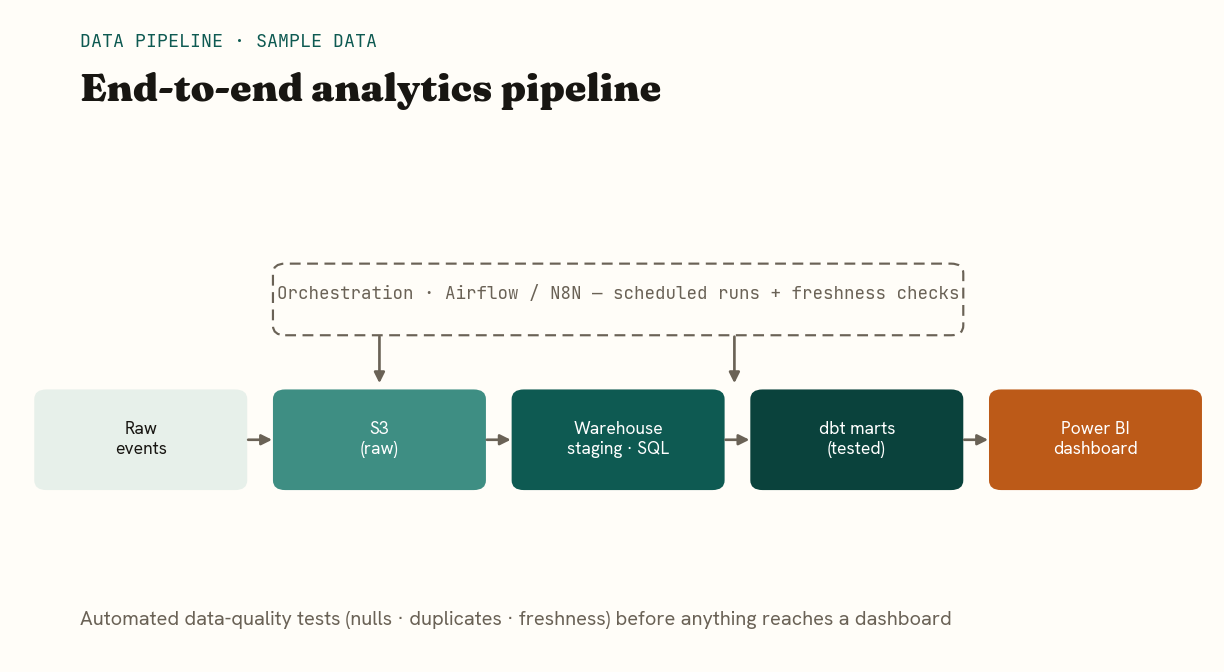
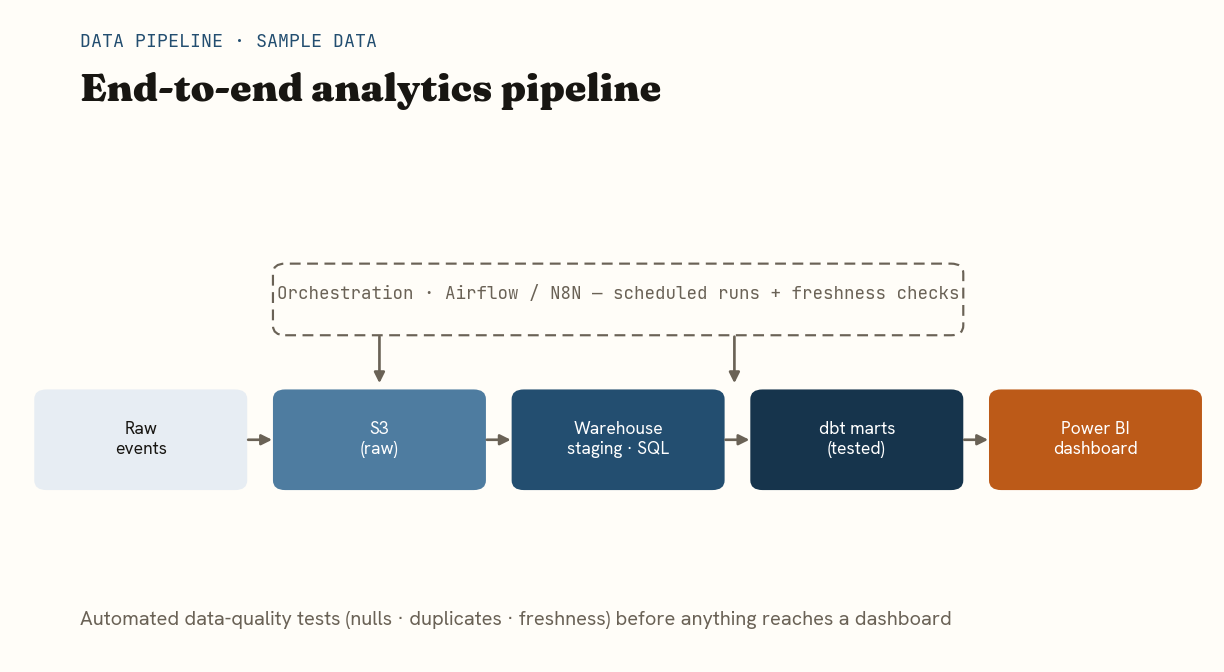
new updates to the color and vendor study page

Changed region(s): [[0.2173, 0.5625, 0.5899, 0.75]]

diff --git a/case-studies.html b/case-studies.html
@@ -21,8 +21,8 @@
   --ink:#181612;
   --ink-soft:#56504552;
   --ink-mute:#6A6256;
-  --teal:#0E5A52;
-  --teal-deep:#0A423C;
+  --teal:#234E70;
+  --teal-deep:#16344C;
   --ochre:#BC5A18;
   --line:#E4DBCA;
   --line-strong:#D6CAB4;
@@ -166,7 +166,7 @@ section{padding:88px 0}
   padding:64px 48px;text-align:center;margin:0 24px}
 .contact h2{font-family:"Fraunces",serif;font-weight:500;font-size:clamp(30px,5vw,52px);
   letter-spacing:-.02em;line-height:1.05;margin-bottom:18px}
-.contact h2 em{font-style:italic;color:#8FD3C8}
+.contact h2 em{font-style:italic;color:#8FB6D6}
 .contact p{color:#C9C2B5;max-width:46ch;margin:0 auto 30px;font-size:18px}
 .contact .links{display:flex;gap:14px;justify-content:center;flex-wrap:wrap}
 .contact .btn{background:var(--paper);color:var(--ink);border-color:var(--paper)}
@@ -205,8 +205,8 @@ footer.foot .mono{font-size:12px}
 .studynote{background:var(--teal-deep);color:#EAF3F0;border-radius:18px;padding:30px 32px;
   display:flex;justify-content:space-between;align-items:center;gap:24px;flex-wrap:wrap;margin-bottom:32px}
 .studynote .snote-pill{font-family:"JetBrains Mono",monospace;font-size:11px;letter-spacing:.1em;
-  text-transform:uppercase;color:#8FD3C8;display:inline-flex;align-items:center;gap:7px}
-.studynote .snote-pill::before{content:"";width:8px;height:8px;border-radius:50%;background:#8FD3C8;
+  text-transform:uppercase;color:#8FB6D6;display:inline-flex;align-items:center;gap:7px}
+.studynote .snote-pill::before{content:"";width:8px;height:8px;border-radius:50%;background:#8FB6D6;
   box-shadow:0 0 0 4px rgba(143,211,200,.2)}
 .studynote h3{font-family:"Fraunces",serif;font-size:26px;font-weight:500;color:#fff;margin:12px 0 8px;letter-spacing:-.01em}
 .studynote p{color:#B7D3CC;max-width:48ch;font-size:15.5px}
@@ -301,7 +301,7 @@ footer.foot .mono{font-size:12px}
     <span class="kicker">END-TO-END ML · FLUTTERWAVE · 2025</span>
     <h2 class="serif">Predicting customer churn across African markets</h2>
     <figure class="casefig">
-      <img src="Files/case-churn.png" alt="Predicting customer churn across African markets — illustrative visual">
+      <img src="case-churn.png" alt="Predicting customer churn across African markets — illustrative visual">
       <figcaption>Illustrative rebuild with sample data — the original is confidential.</figcaption>
     </figure>
     <div class="case-grid">
@@ -317,7 +317,7 @@ footer.foot .mono{font-size:12px}
     <span class="kicker">END-TO-END · FLUTTERWAVE · 2022</span>
     <h2 class="serif">A dynamic risk-rating model to cut fraud</h2>
     <figure class="casefig">
-      <img src="Files/case-risk.png" alt="A dynamic risk-rating model to cut fraud — illustrative visual">
+      <img src="case-risk.png" alt="A dynamic risk-rating model to cut fraud — illustrative visual">
       <figcaption>Illustrative rebuild with sample data — the original is confidential.</figcaption>
     </figure>
     <div class="case-grid">
@@ -333,7 +333,7 @@ footer.foot .mono{font-size:12px}
     <span class="kicker">BI & DASHBOARDING · FLUTTERWAVE · 2025</span>
     <h2 class="serif">A customer-health dashboard for 100k+ accounts</h2>
     <figure class="casefig">
-      <img src="Files/case-health.png" alt="A customer-health dashboard for 100k+ accounts — illustrative visual">
+      <img src="case-health.png" alt="A customer-health dashboard for 100k+ accounts — illustrative visual">
       <figcaption>Illustrative rebuild with sample data — the original is confidential.</figcaption>
     </figure>
     <div class="case-grid">
@@ -349,7 +349,7 @@ footer.foot .mono{font-size:12px}
     <span class="kicker">DATA APP · 2024</span>
     <h2 class="serif">A pricing app that automated merchant analysis</h2>
     <figure class="casefig">
-      <img src="Files/case-pricing.png" alt="A pricing app that automated merchant analysis — illustrative visual">
+      <img src="case-pricing.png" alt="A pricing app that automated merchant analysis — illustrative visual">
       <figcaption>Illustrative rebuild with sample data — the original is confidential.</figcaption>
     </figure>
     <div class="case-grid">
@@ -365,7 +365,7 @@ footer.foot .mono{font-size:12px}
     <span class="kicker">DATA PLATFORM & AI · FLUTTERWAVE · 2025</span>
     <h2 class="serif">A conversational AI platform for company reports</h2>
     <figure class="casefig">
-      <img src="Files/case-ai.png" alt="A conversational AI platform for company reports — illustrative visual">
+      <img src="case-ai.png" alt="A conversational AI platform for company reports — illustrative visual">
       <figcaption>Illustrative rebuild with sample data — the original is confidential.</figcaption>
     </figure>
     <div class="case-grid">
@@ -386,7 +386,7 @@ footer.foot .mono{font-size:12px}
     <span class="kicker">DEMONSTRATION · HEALTHCARE · PUBLIC DATA</span>
     <h2 class="serif">Predicting 30-day hospital readmissions</h2>
     <figure class="casefig">
-      <img src="Files/case-health-readmit.png" alt="Predicting 30-day hospital readmissions — illustrative visual">
+      <img src="case-health-readmit.png" alt="Predicting 30-day hospital readmissions — illustrative visual">
       <figcaption>Built on the public UCI &lsquo;Diabetes 130-US Hospitals&rsquo; dataset (~100k encounters).</figcaption>
     </figure>
     <div class="case-grid">
@@ -402,7 +402,7 @@ footer.foot .mono{font-size:12px}
     <span class="kicker">DEMONSTRATION · PEOPLE ANALYTICS · PUBLIC DATA</span>
     <h2 class="serif">Why employees leave &mdash; an attrition model</h2>
     <figure class="casefig">
-      <img src="Files/case-hr-attrition.png" alt="Why employees leave &mdash; an attrition model — illustrative visual">
+      <img src="case-hr-attrition.png" alt="Why employees leave &mdash; an attrition model — illustrative visual">
       <figcaption>Built on the public IBM HR Analytics Employee Attrition dataset (1,470 employees).</figcaption>
     </figure>
     <div class="case-grid">
@@ -418,7 +418,7 @@ footer.foot .mono{font-size:12px}
     <span class="kicker">DEMONSTRATION · DATA ENGINEERING · SAMPLE DATA</span>
     <h2 class="serif">An end-to-end analytics pipeline</h2>
     <figure class="casefig">
-      <img src="Files/case-pipeline.png" alt="An end-to-end analytics pipeline — illustrative visual">
+      <img src="case-pipeline.png" alt="An end-to-end analytics pipeline — illustrative visual">
       <figcaption>Illustrative architecture &mdash; built and tested with sample event data.</figcaption>
     </figure>
     <div class="case-grid">

diff --git a/index.html b/index.html
@@ -21,8 +21,8 @@
   --ink:#181612;
   --ink-soft:#56504552;
   --ink-mute:#6A6256;
-  --teal:#0E5A52;
-  --teal-deep:#0A423C;
+  --teal:#234E70;
+  --teal-deep:#16344C;
   --ochre:#BC5A18;
   --line:#E4DBCA;
   --line-strong:#D6CAB4;
@@ -166,7 +166,7 @@ section{padding:88px 0}
   padding:64px 48px;text-align:center;margin:0 24px}
 .contact h2{font-family:"Fraunces",serif;font-weight:500;font-size:clamp(30px,5vw,52px);
   letter-spacing:-.02em;line-height:1.05;margin-bottom:18px}
-.contact h2 em{font-style:italic;color:#8FD3C8}
+.contact h2 em{font-style:italic;color:#8FB6D6}
 .contact p{color:#C9C2B5;max-width:46ch;margin:0 auto 30px;font-size:18px}
 .contact .links{display:flex;gap:14px;justify-content:center;flex-wrap:wrap}
 .contact .btn{background:var(--paper);color:var(--ink);border-color:var(--paper)}
@@ -205,8 +205,8 @@ footer.foot .mono{font-size:12px}
 .studynote{background:var(--teal-deep);color:#EAF3F0;border-radius:18px;padding:30px 32px;
   display:flex;justify-content:space-between;align-items:center;gap:24px;flex-wrap:wrap;margin-bottom:32px}
 .studynote .snote-pill{font-family:"JetBrains Mono",monospace;font-size:11px;letter-spacing:.1em;
-  text-transform:uppercase;color:#8FD3C8;display:inline-flex;align-items:center;gap:7px}
-.studynote .snote-pill::before{content:"";width:8px;height:8px;border-radius:50%;background:#8FD3C8;
+  text-transform:uppercase;color:#8FB6D6;display:inline-flex;align-items:center;gap:7px}
+.studynote .snote-pill::before{content:"";width:8px;height:8px;border-radius:50%;background:#8FB6D6;
   box-shadow:0 0 0 4px rgba(143,211,200,.2)}
 .studynote h3{font-family:"Fraunces",serif;font-size:26px;font-weight:500;color:#fff;margin:12px 0 8px;letter-spacing:-.01em}
 .studynote p{color:#B7D3CC;max-width:48ch;font-size:15.5px}
@@ -382,7 +382,7 @@ footer.foot .mono{font-size:12px}
           <li>Written summary &amp; next steps after the call</li>
         </ul>
         <!-- ▼ set your real price ▼ -->
-        <div class="ses-price">from <span class="mono">₦[ price ]</span></div>
+        <div class="ses-price">from <span class="mono">₦15,000</span></div>
         <!-- ▼ point href to your booking page (Stan / Selar / TidyCal) ▼ -->
         <a class="btn book" href="https://selar.com/781z515917" target="_blank" rel="noopener">Book this →</a>
       </article>
@@ -395,7 +395,7 @@ footer.foot .mono{font-size:12px}
           <li>Project framing that shows impact</li>
           <li>Concrete edits you can make the same day</li>
         </ul>
-        <div class="ses-price">from <span class="mono">₦[ price ]</span></div>
+        <div class="ses-price">from <span class="mono">₦12,000</span></div>
         <a class="btn book" href="https://selar.com/781z515917" target="_blank" rel="noopener">Book this →</a>
       </article>
 
@@ -407,12 +407,13 @@ footer.foot .mono{font-size:12px}
           <li>Live, specific feedback</li>
           <li>A checklist to prep on your own</li>
         </ul>
-        <div class="ses-price">from <span class="mono">₦[ price ]</span></div>
+        <div class="ses-price">from <span class="mono">₦25,000</span></div>
         <a class="btn book" href="https://selar.com/781z515917" target="_blank" rel="noopener">Book this →</a>
       </article>
 
     </div>
 
+    <p class="ses-note reveal" style="margin-top:26px"><b style="color:var(--ink)">Launch rate:</b> 20% off every session until 31 July 2026 &mdash; book early.</p>
     <p class="ses-note reveal">Not sure which fits? <a href="mailto:tayodufuwa@gmail.com" style="color:var(--teal);font-weight:600">Send me a message</a> and I'll point you to the right one.</p>
   </div>
 </section>

diff --git a/vendor-study.html b/vendor-study.html
@@ -12,7 +12,7 @@
   /* System fonts only — keeps the page light on 3G for vendors */
   :root{
     --paper:#FBF7EF; --card:#FFFDF8; --ink:#181612; --mute:#6A6256;
-    --teal:#0E5A52; --teal-deep:#0A423C; --line:#E4DBCA;
+    --teal:#234E70; --teal-deep:#16344C; --line:#E4DBCA;
   }
   *{box-sizing:border-box;margin:0;padding:0}
   body{background:var(--paper);color:var(--ink);
@@ -32,7 +32,7 @@
   .bar a.verify{font-size:13px;color:var(--teal);font-weight:600;white-space:nowrap}
 
   .intro{padding:30px 0 8px}
-  .pill{display:inline-block;background:#E7F0EA;color:var(--teal);font-size:13px;font-weight:700;
+  .pill{display:inline-block;background:#E7EDF3;color:var(--teal);font-size:13px;font-weight:700;
     padding:5px 12px;border-radius:999px;margin-bottom:14px}
   h1{font-size:clamp(24px,5vw,30px);line-height:1.2;letter-spacing:-.02em;margin-bottom:12px}
   .intro p{color:#3A352B;margin-bottom:12px}
@@ -44,11 +44,14 @@
   .who .txt b{color:var(--ink)}
   .who .txt a{color:var(--teal);font-weight:600}
 
-  .formcard{background:var(--card);border:1px solid var(--line);border-radius:18px;
-    overflow:hidden;margin:18px 0 8px;box-shadow:0 10px 30px -22px rgba(24,22,18,.5)}
-  iframe{width:100%;border:0;display:block;min-height:1500px}
-  .fallback{padding:18px;text-align:center;font-size:14.5px;color:var(--mute);border-top:1px solid var(--line)}
-  .fallback a{color:var(--teal);font-weight:700}
+  .cta-card{background:var(--card);border:1px solid var(--line);border-radius:18px;
+    padding:28px 22px;margin:20px 0 8px;text-align:center;box-shadow:0 10px 30px -22px rgba(24,22,18,.5)}
+  .cta-btn{display:inline-block;background:var(--teal);color:#fff;font-weight:700;font-size:18px;
+    padding:16px 30px;border-radius:14px;text-decoration:none;min-width:240px}
+  .cta-btn:active{background:var(--teal-deep)}
+  .cta-sub{margin-top:14px;font-size:13.5px;color:var(--mute)}
+  .note{margin:16px 0 0;font-size:13.5px;color:#3A352B;background:#E7EDF3;border-radius:12px;padding:13px 15px}
+  .note b{color:var(--ink)}
 
   footer{padding:26px 0 40px;text-align:center;color:var(--mute);font-size:13px}
 </style>
@@ -78,18 +81,13 @@
     </div>
   </div>
 
-  <div class="formcard">
-    <!-- ▼▼ PASTE YOUR GOOGLE APPS SCRIPT WEB APP URL (ends in /exec) BELOW ▼▼ -->
-    <iframe
-      src="https://script.google.com/macros/s/AKfycbwVYenTTIi2VAfFz6fu7V9M-UHpCviutxAtpMvJ1loyByhqLdpQE9ZBKqRi8ilkJtQI/exec"
-      title="Vendor survey"
-      loading="lazy"></iframe>
-    <div class="fallback">
-      Form not loading?
-      <!-- ▼ same /exec URL here as a direct link ▼ -->
-      <a href="https://script.google.com/macros/s/AKfycbwVYenTTIi2VAfFz6fu7V9M-UHpCviutxAtpMvJ1loyByhqLdpQE9ZBKqRi8ilkJtQI/exec" target="_blank" rel="noopener">Open it in a new tab →</a>
-    </div>
+  <div class="cta-card">
+    <!-- ▼▼ PASTE YOUR GOOGLE APPS SCRIPT WEB APP URL (ends in /exec) IN BOTH href SPOTS ▼▼ -->
+    <a class="cta-btn" href="PASTE_YOUR_GAS_WEB_APP_EXEC_URL_HERE" target="_blank" rel="noopener">Start the 2-minute survey &#8594;</a>
+    <p class="cta-sub">Opens the form in a new tab. Nothing to install, nothing to buy.</p>
   </div>
+
+  <p class="note">&#128241; <b>Opening from Instagram?</b> If the form looks cramped or won't load, tap the <b>&#8943;</b> (or <b>Aa</b>) menu at the top and choose <b>&ldquo;Open in browser&rdquo;</b>. It works best in Chrome or Safari.</p>
 
   <footer>Thank you for your time. — Odutayo</footer>
 

diff --git a/work.html b/work.html
@@ -21,8 +21,8 @@
   --ink:#181612;
   --ink-soft:#56504552;
   --ink-mute:#6A6256;
-  --teal:#0E5A52;
-  --teal-deep:#0A423C;
+  --teal:#234E70;
+  --teal-deep:#16344C;
   --ochre:#BC5A18;
   --line:#E4DBCA;
   --line-strong:#D6CAB4;
@@ -166,7 +166,7 @@ section{padding:88px 0}
   padding:64px 48px;text-align:center;margin:0 24px}
 .contact h2{font-family:"Fraunces",serif;font-weight:500;font-size:clamp(30px,5vw,52px);
   letter-spacing:-.02em;line-height:1.05;margin-bottom:18px}
-.contact h2 em{font-style:italic;color:#8FD3C8}
+.contact h2 em{font-style:italic;color:#8FB6D6}
 .contact p{color:#C9C2B5;max-width:46ch;margin:0 auto 30px;font-size:18px}
 .contact .links{display:flex;gap:14px;justify-content:center;flex-wrap:wrap}
 .contact .btn{background:var(--paper);color:var(--ink);border-color:var(--paper)}
@@ -205,8 +205,8 @@ footer.foot .mono{font-size:12px}
 .studynote{background:var(--teal-deep);color:#EAF3F0;border-radius:18px;padding:30px 32px;
   display:flex;justify-content:space-between;align-items:center;gap:24px;flex-wrap:wrap;margin-bottom:32px}
 .studynote .snote-pill{font-family:"JetBrains Mono",monospace;font-size:11px;letter-spacing:.1em;
-  text-transform:uppercase;color:#8FD3C8;display:inline-flex;align-items:center;gap:7px}
-.studynote .snote-pill::before{content:"";width:8px;height:8px;border-radius:50%;background:#8FD3C8;
+  text-transform:uppercase;color:#8FB6D6;display:inline-flex;align-items:center;gap:7px}
+.studynote .snote-pill::before{content:"";width:8px;height:8px;border-radius:50%;background:#8FB6D6;
   box-shadow:0 0 0 4px rgba(143,211,200,.2)}
 .studynote h3{font-family:"Fraunces",serif;font-size:26px;font-weight:500;color:#fff;margin:12px 0 8px;letter-spacing:-.01em}
 .studynote p{color:#B7D3CC;max-width:48ch;font-size:15.5px}
